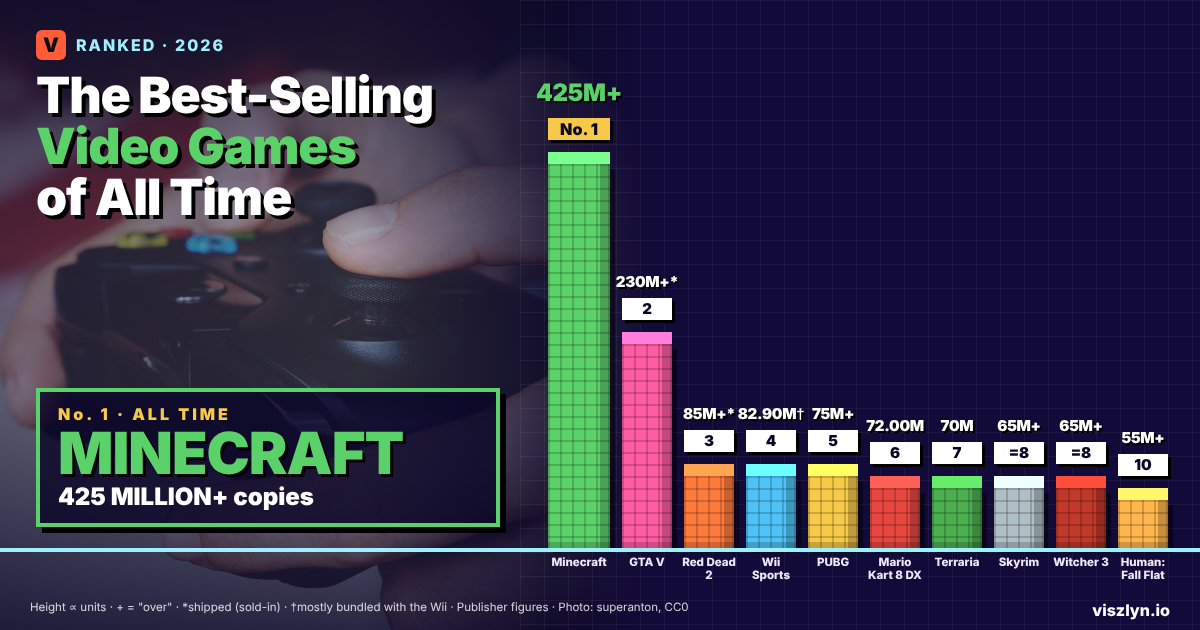
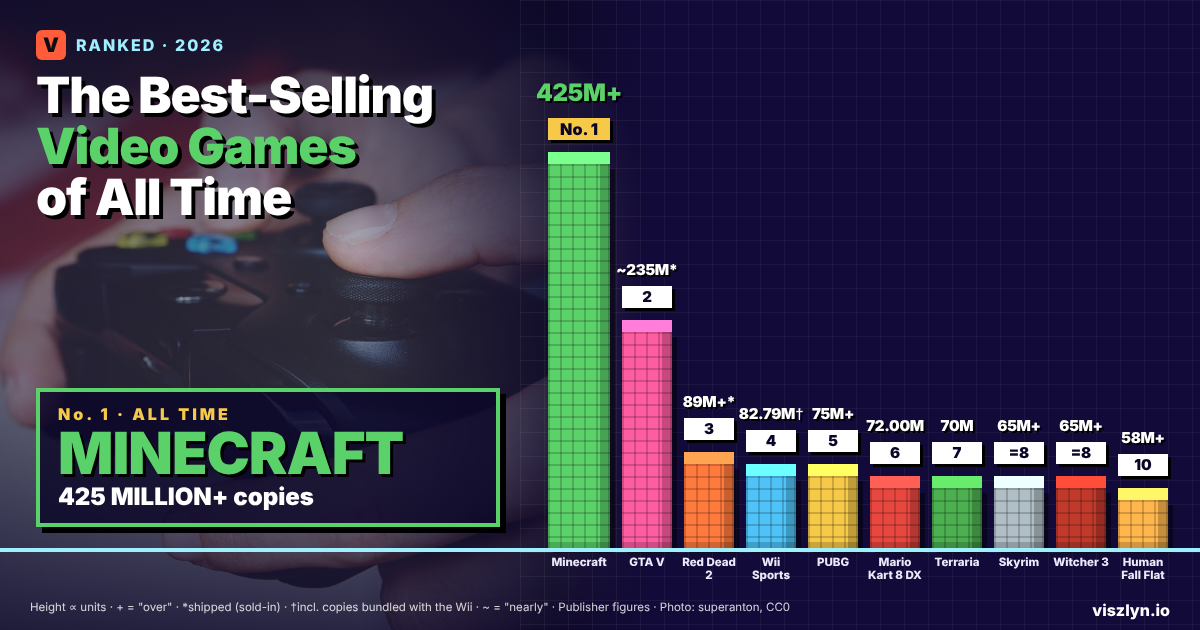
Games article: apply review corrections (Wii Sports 82.79M, HFF 58M+, GTA V ~235M, RDR2 89M+, Tetris callout, methodology)
Claude-Session: https://claude.ai/code/session_01Lx7Mnbsr2j6Zre36XCS9Kp

diff --git a/src/data/rankings/best-selling-video-games-2026.ts b/src/data/rankings/best-selling-video-games-2026.ts
@@ -8,62 +8,62 @@ export const bestSellingVideoGames2026: RankingArticle = {
 
   metaTitle: "The 10 Best-Selling Video Games of All Time (2026) | Viszlyn",
   metaDescription:
-    "Minecraft leads with over 425 million copies, ahead of GTA V (over 230 million shipped) and Red Dead Redemption 2. See the 10 best-selling video games, with each publisher's official figures.",
+    "Minecraft leads with over 425 million copies, ahead of GTA V (nearly 235 million shipped) and Red Dead Redemption 2. See the 10 best-selling video games, with each publisher's official figures.",
   ogTitle: "The Best-Selling Video Games of All Time",
   ogDescription:
     "Minecraft, GTA V, Red Dead Redemption 2 and Wii Sports lead the list. Every figure is the publisher's own, with sold and shipped counts labelled.",
   twitterTitle: "The 10 Best-Selling Video Games Ever (2026)",
   twitterDescription:
-    "Minecraft 425M+. GTA V 230M+ shipped. RDR2 85M+. Wii Sports 82.90M. The all-time top 10, from publishers' own figures.",
+    "Minecraft 425M+. GTA V nearly 235M shipped. RDR2 89M+. Wii Sports 82.79M. The all-time top 10, from publishers' own figures.",
 
   eyebrow: "Tech",
   title: "The 10 Best-Selling Video Games of All Time",
-  dek: "Minecraft has sold over 425 million copies, nearly twice GTA V's shipments. The rest of the top 10 ranges from Rockstar blockbusters to a Nintendo pack-in and a two-player physics game, each measured by its publisher's own lifetime figure.",
+  dek: "Minecraft has sold over 425 million copies, about 1.8 times GTA V's shipments. The rest of the top 10 ranges from Rockstar blockbusters to a Nintendo pack-in and a two-player physics game, each measured by its publisher's own lifetime figure.",
   publishedDate: "November 24, 2026",
   lastUpdated: "November 24, 2026",
-  dataPeriod: "Publisher figures published from 2020 to November 2026",
+  dataPeriod: "Latest publisher figures available as of November 24, 2026; individual figure dates vary",
   heroImage: {
     src: "/heroes/best-selling-video-games-2026.png",
     ogSrc: "/heroes/best-selling-video-games-2026-og.png",
-    alt: "Pixel-art towers showing the best-selling video games by lifetime units: Minecraft over 425 million, GTA V over 230 million shipped, Red Dead Redemption 2 over 85 million shipped, Wii Sports 82.90 million, PUBG over 75 million, Mario Kart 8 Deluxe 72.00 million, Terraria 70 million, Skyrim and The Witcher 3 over 65 million each, and Human: Fall Flat over 55 million, beside a photo of hands holding a game controller and a callout naming Minecraft as No. 1.",
+    alt: "Pixel-art towers showing the best-selling video games by lifetime units: Minecraft over 425 million, GTA V nearly 235 million shipped, Red Dead Redemption 2 over 89 million shipped, Wii Sports 82.79 million, PUBG over 75 million, Mario Kart 8 Deluxe 72.00 million, Terraria 70 million, Skyrim and The Witcher 3 over 65 million each, and Human Fall Flat over 58 million, beside a photo of hands holding a game controller and a callout naming Minecraft as No. 1.",
   },
 
   quickAnswer:
-    "Minecraft is the best-selling video game of all time, with over 425 million units sold according to Microsoft (October 2026). Grand Theft Auto V is second with over 230 million units shipped to retailers and digital stores (Take-Two, November 2026), and Red Dead Redemption 2 third with more than 85 million. Wii Sports (82.90 million, mostly bundled with the Wii) and PUBG: Battlegrounds (more than 75 million paid copies) complete the top five.",
+    "Minecraft is the best-selling video game of all time, with over 425 million units sold according to Microsoft (October 2026). Grand Theft Auto V is second with nearly 235 million units sold-in, meaning shipped to retailers plus digital sales (Take-Two, November 2026), and Red Dead Redemption 2 third with over 89 million. Wii Sports (82.79 million, including copies bundled with the Wii) and PUBG: Battlegrounds (more than 75 million paid copies) complete the top five.",
   introParagraph:
-    "There is no single official league table for game sales, so this ranking uses each publisher's own latest lifetime figure for one game, with all its platforms and editions combined. Publishers count differently, and we label it on every entry. Take-Two reports \"sold-in\" units, meaning copies shipped to retailers plus digital sales, not copies bought by players. Nintendo's figures include digital copies and copies bundled with its consoles. Most others simply say \"sold\". Where a publisher gives a floor such as \"over 65 million\", we rank on that number, so close ranks should be read as approximate. Series totals, player counts and free downloads are not counted.",
+    "There is no single official league table for game sales, so this ranking uses the latest lifetime unit figure each publisher or platform holder has published for one game, in that company's own scope. Publishers count differently, and we label it on every entry. Take-Two reports \"sold-in\" units, meaning copies shipped to retailers plus digital sales, not copies bought by players. Nintendo's figures include digital copies and copies bundled with hardware. Most others simply say \"sold\". Where a publisher gives a threshold such as \"over 65 million\", we keep that wording, so close ranks should be read as approximate. Series and brand totals, player counts and free downloads are not counted.",
   calloutBox: {
     label: "Why isn't Tetris here?",
-    body: "Tetris is often called the best-selling game ever, but no publisher reports a lifetime total for one Tetris game. The famous \"520 million\" figure covers every version since 1984 and includes free downloads. The largest single-publisher figure is EA's \"over 100 million paid downloads\" of its mobile Tetris games, announced in January 2010, but it combines several EA versions, covers mobile phones only and has never been updated (EA's Tetris apps closed in 2020). Because every entry in this list is one game's lifetime sales from its publisher, Tetris cannot be ranked on the same terms.",
+    body: "The Tetris Company reports more than 520 million copies sold worldwide, across a brand available on over 50 platforms. That is a brand-wide total covering many different games and releases by many licensees, not a figure for one specific game. EA separately reported over 100 million paid mobile downloads in January 2010, covering several of its own mobile Tetris games. Minecraft's total is different: it is one game, published by one company, across its editions. Because this ranking compares individual games with clearly attributable lifetime figures, neither Tetris aggregate is ranked here.",
   },
 
   chartTitle: "Lifetime units (millions)",
-  chartSource: "Publisher and platform-holder figures (Microsoft, Take-Two, Nintendo, KRAFTON, Re-Logic, Bethesda, CD Projekt, Curve Games). \"+\" = publisher said \"over\" or \"more than\"",
+  chartSource: "Publisher and platform-holder figures (Microsoft, Take-Two, Nintendo, KRAFTON, Re-Logic, Bethesda, CD Projekt, Curve Games). \"+\" = publisher said \"over\" or \"more than\"; \"~\" = \"nearly\"",
   chartTapNote: "Tap any game to jump to its details below.",
   entryValueLabel: "Lifetime units:",
   chartItems: [
     { rank: 1, name: "Minecraft", value: "425M+", raw: 425 },
-    { rank: 2, name: "Grand Theft Auto V (shipped)", value: "230M+", raw: 230 },
-    { rank: 3, name: "Red Dead Redemption 2 (shipped)", value: "85M+", raw: 85 },
-    { rank: 4, name: "Wii Sports (incl. console bundles)", value: "82.90M", raw: 82.9 },
+    { rank: 2, name: "Grand Theft Auto V (shipped)", value: "~235M", raw: 235 },
+    { rank: 3, name: "Red Dead Redemption 2 (shipped)", value: "89M+", raw: 89 },
+    { rank: 4, name: "Wii Sports (incl. console bundles)", value: "82.79M", raw: 82.79 },
     { rank: 5, name: "PUBG: Battlegrounds", value: "75M+", raw: 75 },
     { rank: 6, name: "Mario Kart 8 Deluxe", value: "72.00M", raw: 72 },
     { rank: 7, name: "Terraria", value: "70M", raw: 70 },
     { rank: 8, rankLabel: "=8", name: "The Elder Scrolls V: Skyrim", value: "65M+", raw: 65 },
     { rank: 9, rankLabel: "=8", name: "The Witcher 3: Wild Hunt", value: "65M+", raw: 65 },
-    { rank: 10, name: "Human: Fall Flat", value: "55M+", raw: 55 },
+    { rank: 10, name: "Human Fall Flat", value: "58M+", raw: 58 },
   ],
 
   detailedEntries: [
     {
       rank: 10,
-      name: "Human: Fall Flat",
-      earnings: "Over 55 million copies",
+      name: "Human Fall Flat",
+      earnings: "More than 58 million units",
       category: "Curve Games · 2016",
-      origin: "Sold · all platforms (PC, consoles, mobile, VR)",
-      blurb: "Curve Games announced 55 million units sold in January 2025, and its March 2026 Nintendo Switch 2 release still described the game as having sold over 55 million copies.",
-      standoutFact: "Curve called it the third best-selling indie game when it announced the 55 million milestone. Later figures of 58 million and more refer to players, not copies, so they are not used here.",
-      sourceTag: "Curve Games, via PocketGamer.biz (January 2025) and Gematsu (March 2026)",
+      origin: "Sold · across its platforms (no platform breakdown published)",
+      blurb: "Curve Games reported in March 2026 that Human Fall Flat had sold more than 58 million units, up from the 55 million it announced in January 2025. The publisher does not give a platform-by-platform breakdown.",
+      standoutFact: "Curve called it the third best-selling indie game when it announced the 55 million milestone.",
+      sourceTag: "Curve Games (March 2026; January 2025 milestone via PocketGamer.biz)",
     },
     {
       rank: 9,
@@ -71,8 +71,8 @@ export const bestSellingVideoGames2026: RankingArticle = {
       name: "The Witcher 3: Wild Hunt",
       earnings: "Over 65 million copies",
       category: "CD Projekt Red · 2015",
-      origin: "Sold · all platforms, including Game of the Year and Complete editions",
-      blurb: "CD Projekt reported more than 65 million copies of The Witcher 3 sold, a count as of May 28, 2026 published with its first-half 2026 results on September 2, 2026. The figure includes copies sold separately and in the game's GOTY and Complete editions.",
+      origin: "Sold · multi-platform (no edition breakdown published)",
+      blurb: "CD Projekt reported more than 65 million copies of The Witcher 3 sold, a count as of May 28, 2026 published with its first-half 2026 results on September 2, 2026. The announcement does not give a breakdown by platform or edition.",
       standoutFact: "The whole Witcher series has passed 90 million copies. Skyrim and The Witcher 3 share eighth place because both publishers say only \"over 65 million\".",
       sourceTag: "CD Projekt, \"CD PROJEKT RED wraps up the first half of 2026\" (September 2, 2026)",
     },
@@ -82,8 +82,8 @@ export const bestSellingVideoGames2026: RankingArticle = {
       name: "The Elder Scrolls V: Skyrim",
       earnings: "Over 65 million copies",
       category: "Bethesda Softworks · 2011",
-      origin: "Sold · all editions, from the 2011 original to the Anniversary Edition",
-      blurb: "Bethesda Game Studios said in July 2026 that Skyrim had sold over 65 million copies, a lifetime total that includes its re-releases.",
+      origin: "Sold · multi-platform (no edition breakdown published)",
+      blurb: "Bethesda Game Studios said in July 2026 that Skyrim had sold over 65 million copies since its 2011 launch. The note does not say which re-releases or editions are included.",
       standoutFact: "In the same note, Bethesda confirmed The Elder Scrolls VI is now the studio's main focus.",
       sourceTag: "Bethesda Game Studios, \"A note from Bethesda Game Studios\" (July 17, 2026)",
     },
@@ -95,7 +95,7 @@ export const bestSellingVideoGames2026: RankingArticle = {
       origin: "Sold · PC 39.6 million, mobile 19.7 million, console 10.7 million",
       blurb: "Re-Logic marked Terraria's 15th anniversary in May 2026 by announcing 70 million copies sold, more than half of them on PC.",
       standoutFact: "It sold more on mobile (19.7 million) than on consoles (10.7 million).",
-      sourceTag: "Re-Logic, \"Celebrating 15 years of Terraria\" (May 16, 2026), as reported by GamesRadar and others",
+      sourceTag: "Re-Logic, \"Celebrating 15 years of Terraria\" (official forum, May 16, 2026); also reported by GamesRadar and PocketGamer.biz",
     },
     {
       rank: 6,
@@ -120,41 +120,41 @@ export const bestSellingVideoGames2026: RankingArticle = {
     {
       rank: 4,
       name: "Wii Sports",
-      earnings: "82.90 million",
+      earnings: "82.79 million",
       category: "Nintendo · 2006",
-      origin: "Nintendo sales units · mostly copies bundled with the Wii console",
-      blurb: "Nintendo's final Wii software figure for Wii Sports is 82.90 million units. The game came packed with the Wii console in most of the world and was sold separately mainly in Japan, so most of these copies were bundled, not bought on their own.",
-      standoutFact: "Its total is higher than any Nintendo Switch game, including Mario Kart 8 Deluxe at 72.00 million, largely thanks to the console bundle.",
-      sourceTag: `${NIN}, Wii (final reported figure, 2020), as reported by Nintendo Life`,
+      origin: "Nintendo sales units · Wii, including copies bundled with hardware",
+      blurb: "Nintendo's Wii software table lists Wii Sports at 82.79 million units as of September 30, 2016, and notes that software units include copies bundled with hardware. The game came packed with the Wii console in many regions, so not all of these copies were bought on their own.",
+      standoutFact: "Its total is higher than any Nintendo Switch game, including Mario Kart 8 Deluxe at 72.00 million.",
+      sourceTag: `${NIN}, Wii (as of September 30, 2016)`,
     },
     {
       rank: 3,
       name: "Red Dead Redemption 2",
-      earnings: "More than 85 million (shipped)",
+      earnings: "Over 89 million (shipped)",
       category: "Rockstar Games (Take-Two) · 2018",
       origin: "Sold-in · copies shipped to retailers plus digital sales",
-      blurb: "Take-Two's November 2026 quarterly filing says Red Dead Redemption 2 has sold-in more than 85 million units. Its investor presentation the same day put the figure at over 89 million.",
+      blurb: "Take-Two's November 2026 investor presentation says Red Dead Redemption 2 has sold-in over 89 million units. Its quarterly filing the same day gave a more conservative \"more than 85 million\".",
       standoutFact: "Red Dead Online came free with every copy before getting its own standalone release.",
-      sourceTag: TT10Q,
+      sourceTag: "Take-Two Interactive, investor presentation (November 9, 2026); Form 10-Q (filed November 9, 2026)",
     },
     {
       rank: 2,
       name: "Grand Theft Auto V",
-      earnings: "Over 230 million (shipped)",
+      earnings: "Nearly 235 million (shipped)",
       category: "Rockstar Games (Take-Two) · 2013",
       origin: "Sold-in · copies shipped to retailers plus digital sales, across three console generations",
-      blurb: "Take-Two's November 2026 quarterly filing says GTA V has sold-in over 230 million units, and its investor presentation the same day said nearly 235 million. It has been released across three generations of consoles.",
-      standoutFact: "The wider Grand Theft Auto series has sold-in over 475 million units. GTA VI, released November 19, 2026, sold 32.5 million units before launch.",
-      sourceTag: TT10Q,
+      blurb: "Take-Two says GTA V has sold-in nearly 235 million units, the figure in its November 2026 investor materials; its quarterly filing gave a more conservative \"over 230 million\". It has been released across three generations of consoles.",
+      standoutFact: "The wider Grand Theft Auto series had sold-in over 475 million units by Take-Two's November 9 filing. GTA VI, released November 19, 2026, sold 32.5 million units before launch.",
+      sourceTag: "Take-Two Interactive, November 2026 investor materials; Form 10-Q (filed November 9, 2026)",
     },
     {
       rank: 1,
       name: "Minecraft",
       earnings: "Over 425 million copies",
-      category: "Mojang Studios (Microsoft) · 2011",
-      origin: "Sold · all platforms and editions combined",
-      blurb: "Microsoft said in autumn 2026 that Minecraft had grown from 350 million to over 425 million units sold. It is one combined total for every edition and platform, from PC to consoles and mobile.",
-      standoutFact: "It is nearly twice GTA V's shipments, and more than the next three games on this list combined.",
+      category: "Mojang Studios (Microsoft) · 2009 (full release 2011)",
+      origin: "Sold · Microsoft's latest published total",
+      blurb: "Microsoft said in autumn 2026 that Minecraft had grown from 350 million to over 425 million units sold. The announcement does not give a breakdown by platform or edition.",
+      standoutFact: "That is about 1.8 times GTA V's shipments (Viszlyn calculation). Minecraft was first released in 2009, with its full release in 2011.",
       sourceTag: "Microsoft, Xbox Wire \"Introducing XP\" (October 8, 2026) and Minecraft Live (September 26, 2026)",
     },
   ],
@@ -162,28 +162,32 @@ export const bestSellingVideoGames2026: RankingArticle = {
   keyTakeaway: {
     stat: "425M+",
     label: "Minecraft's lifetime sales",
-    comparisonStat: "397.9M",
-    comparisonLabel: "GTA V, RDR2 and Wii Sports combined",
-    note: "Combined figure is a Viszlyn calculation from the publishers' floors (230M + 85M + 82.90M). GTA V and RDR2 are shipped (sold-in) units, and most Wii Sports copies were bundled with the console.",
+    comparisonStat: "~235M",
+    comparisonLabel: "GTA V, the No. 2 game (shipped units)",
+    note: "Minecraft's figure is units sold; GTA V's is sold-in (shipped to retailers plus digital sales), so the two are not counted in exactly the same way.",
   },
 
+
   sourceNote: {
-    dataPeriod: "Publisher figures published from 2020 to November 2026",
+    dataPeriod: "Latest publisher figures available as of November 24, 2026; individual figure dates vary",
     lastUpdated: "November 24, 2026",
     sources:
-      "Microsoft (Xbox Wire, October 8, 2026); Take-Two Interactive (Form 10-Q filed November 9, 2026, and investor presentation; Form 8-K, November 20, 2026, for GTA VI); Nintendo (Top Selling Title Sales Units for Wii and Nintendo Switch); KRAFTON (January 2022); Re-Logic (May 2026); Bethesda Game Studios (July 2026); CD Projekt (September 2026); Curve Games (January 2025 and March 2026); Electronic Arts (January 2010, Tetris).",
+      "Microsoft (Xbox Wire, October 8, 2026); Take-Two Interactive (investor materials and Form 10-Q, November 2026; Form 8-K, November 20, 2026, for GTA VI); Nintendo (Top Selling Title Sales Units for Wii and Nintendo Switch); KRAFTON (January 2022); Re-Logic (May 2026); Bethesda Game Studios (July 2026); CD Projekt (September 2026); Curve Games (January 2025 and March 2026); The Tetris Company (June 2026) and Electronic Arts (January 2010) for Tetris.",
     methodology:
-      "Games are ranked by the latest lifetime unit figure published by their publisher or platform holder, for one game with all platforms and editions combined. Counting methods differ and are labelled on each entry: Take-Two reports sold-in units (copies shipped to retail plus digital sales); Nintendo's sales units include digital copies and copies bundled with hardware; other publishers say copies sold. Where a publisher gives a floor (\"over\" or \"more than\"), we rank on that number, so close ranks are approximate; Skyrim and The Witcher 3 are shown as tied. For Take-Two we use its SEC filing; its same-day investor presentation gave slightly higher figures (GTA V nearly 235 million, RDR2 over 89 million), which do not change the ranks. Series totals, player counts and free-to-play downloads are excluded, and figures that combine different versions of a game (such as Tetris) are not ranked. GTA VI has no lifetime figure yet and is not ranked.",
+      "This ranking uses the latest cumulative unit figure published by each game's publisher or platform holder as of November 24, 2026. We keep each company's wording and identify whether it reports units sold or sold-in (shipped). The figures are not perfectly comparable: Take-Two reports sold-in units, while Nintendo's software totals include digital copies and copies bundled with hardware or other products. Platform and edition coverage is stated for each game, and a figure is not assumed to cover every release unless the source says so: PUBG's figure covers paid PC and console copies, Mario Kart 8 Deluxe is the Switch release and Wii Sports is the Wii release. Where a company reports only a threshold such as \"over 65 million\", we keep that wording and show equal thresholds as tied. For Take-Two we use its latest investor figures (GTA V nearly 235 million, RDR2 over 89 million); its quarterly filing gave more conservative thresholds that do not change the ranks. Brand and series totals, player counts and free-to-play downloads are excluded, which is why Tetris is not ranked. GTA VI has no lifetime figure yet.",
     sourceLinks: [
       { label: "Xbox Wire: Introducing XP (Minecraft 425M+)", href: "https://news.xbox.com/en-us/2026/10/08/introducing-xp/" },
       { label: "Take-Two Form 10-Q, quarter ended Sept 30, 2026 (SEC)", href: "https://www.sec.gov/Archives/edgar/data/946581/000162828026072254/ttwo-20260930.htm" },
       { label: "Nintendo IR: Top selling titles, Nintendo Switch", href: "https://www.nintendo.co.jp/ir/en/finance/software/switch.html" },
-      { label: "Nintendo Life: Wii top 10 (Wii Sports 82.90M)", href: "https://www.nintendolife.com/news/2020/11/the_top_ten_best-selling_games_for_wii_u_3ds_wii_and_ds_as_of_september_2020" },
+      { label: "Nintendo IR: Top selling titles, Wii (Wii Sports 82.79M)", href: "https://www.nintendo.co.jp/ir/en/sale/software/wii.html" },
+      { label: "Take-Two investor presentation, November 2026", href: "https://ir.take2games.com/static-files/c4c4f7f0-6a7c-4159-b97f-089a76580c38" },
       { label: "KRAFTON: PUBG: Battlegrounds after going free-to-play", href: "https://krafton.com/zh/news/press/pubg-battlegrounds-sees-growth-following-its-recent-transition-to-free-to-play/" },
+      { label: "Re-Logic: Celebrating 15 years of Terraria (official forum)", href: "https://forums.terraria.org/index.php?threads/celebrating-15-years-of-terraria.149950/" },
       { label: "GamesRadar: Terraria sells over 70 million copies", href: "https://www.gamesradar.com/games/simulation/as-terraria-sells-over-70-million-copies-devs-are-done-with-promising-final-updates-and-say-theyll-continue-beyond-1-4-6/" },
       { label: "Bethesda: A note from Bethesda Game Studios", href: "https://bethesda.net/en/article/7wrffyXajE4BmCLJVpOkcN/a-note-from-bethesda-game-studios" },
       { label: "CD Projekt: first half of 2026", href: "https://www.cdprojekt.com/en/media/news/cd-projekt-red-wraps-up-the-first-half-of-2026/" },
-      { label: "Gematsu: Human Fall Flat Switch 2 Edition (55M+ copies)", href: "https://www.gematsu.com/2026/03/human-fall-flat-nintendo-switch-2-edition-now-available" },
+      { label: "Curve Games news (March 2026, 58M+ units sold)", href: "https://curvegames.com/news/dave-the-diver-joins-human-fall-flat/" },
+      { label: "PocketGamer.biz: Human Fall Flat has sold 55 million units (Jan 2025)", href: "https://www.pocketgamer.biz/curve-games-human-fall-flat-has-sold-55-million-units" },
       { label: "EA: Tetris surpasses 100 million paid mobile downloads (2010)", href: "https://news.ea.com/press-releases/press-releases-details/2010/Tetris-Game-Surpasses-100-Million-Paid-Mobile-Downloads-Is-the-Best-Selling-Mobile-Phone-Game-of-All-Time/default.aspx" },
       { label: "Take-Two Form 8-K, GTA VI launch (SEC)", href: "https://www.sec.gov/Archives/edgar/data/946581/000162828026075217/exhibit9918k.htm" },
     ],
@@ -193,17 +197,17 @@ export const bestSellingVideoGames2026: RankingArticle = {
     {
       question: "What is the best-selling video game of all time?",
       answer:
-        "Minecraft, with over 425 million units sold across all editions and platforms, according to Microsoft in autumn 2026. Grand Theft Auto V is second with over 230 million units shipped (Take-Two).",
+        "Minecraft, with over 425 million units sold, according to Microsoft in autumn 2026. Grand Theft Auto V is second with nearly 235 million units sold-in, or shipped (Take-Two).",
     },
     {
       question: "Why isn't Tetris number one?",
       answer:
-        "No publisher reports a lifetime total for a single Tetris game. Popular figures combine dozens of versions since 1984 and include free downloads, and EA's own figure (over 100 million paid mobile downloads, 2010) mixes several mobile versions and was never updated, so Tetris can't be ranked on the same basis as the other games.",
+        "The Tetris Company reports more than 520 million copies sold, but that is a brand-wide total across many different Tetris games on over 50 platforms, not one game. EA's figure of over 100 million paid mobile downloads (2010) also combines several of its mobile Tetris games. This ranking compares individual games, so neither total is ranked.",
     },
     {
       question: "How many copies has GTA VI sold?",
       answer:
-        "Take-Two said GTA VI sold 32.5 million units before its release on November 19, 2026. It has not yet published a lifetime figure. If it passes about 55 million, it would enter this top 10.",
+        "Take-Two said GTA VI sold 32.5 million units before its release on November 19, 2026. It has not yet published a lifetime figure. If it passes about 58 million, it would enter this top 10.",
     },
     {
       question: "What does \"sold-in\" or \"shipped\" mean?",
@@ -213,7 +217,7 @@ export const bestSellingVideoGames2026: RankingArticle = {
     {
       question: "Does Wii Sports really count?",
       answer:
-        "Nintendo counts it, so it is ranked, but most of its 82.90 million copies came bundled with the Wii console rather than being bought separately. Each entry in this list shows how its figure is counted.",
+        "Nintendo counts it, so it is ranked, but its 82.79 million units include copies bundled with the Wii console, which came packed with the game in many regions. Each entry in this list shows how its figure is counted.",
     },
     {
       question: "What is the best-selling Nintendo Switch game?",
